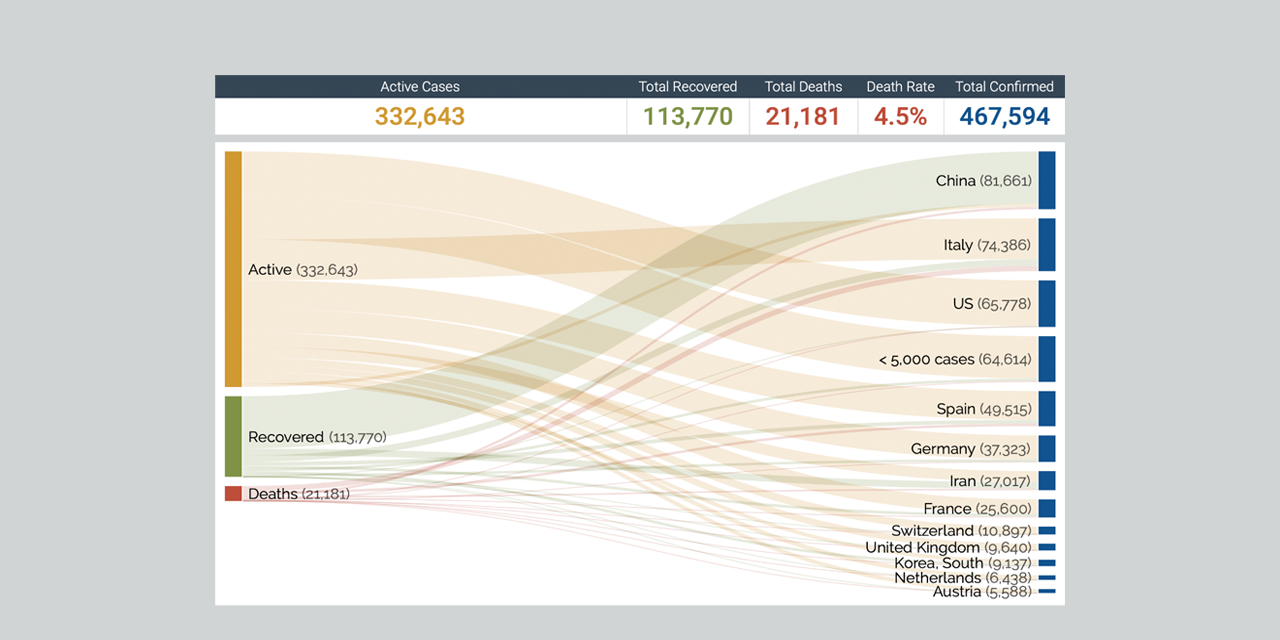
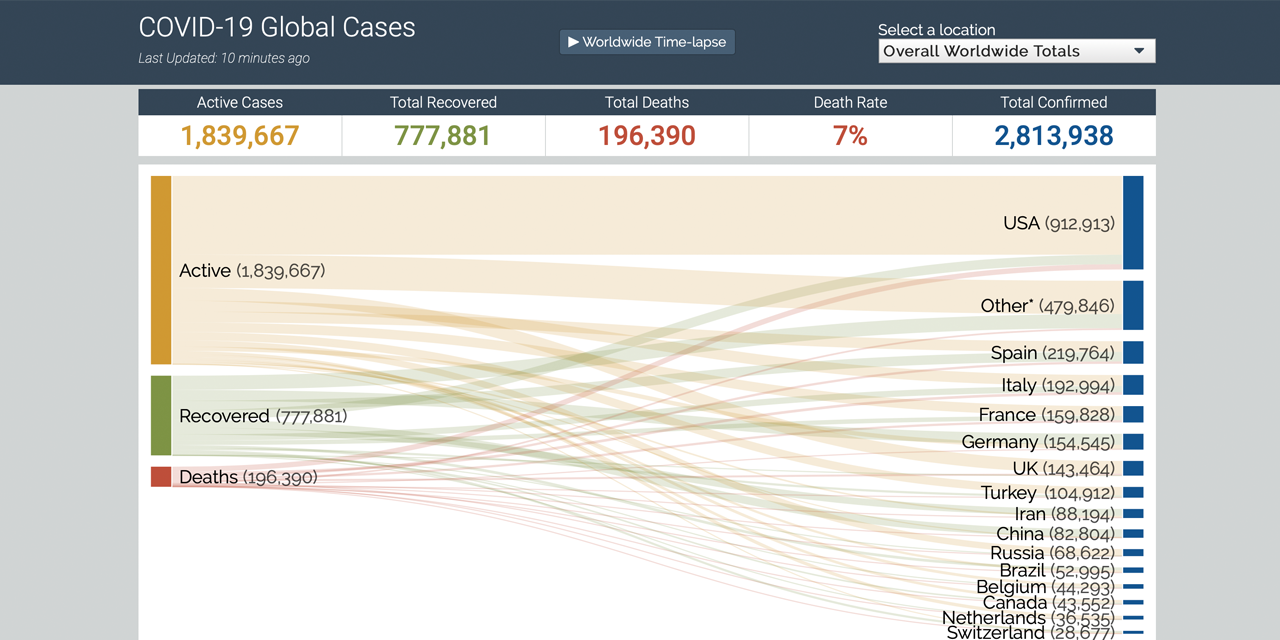
fix: update screenshot to match current view
Bumps the cache version for the service worker as well

fixes #94

diff --git a/src/service-worker.js b/src/service-worker.js
@@ -1,5 +1,5 @@
 // Name our cache
-const CACHE_NAME = 'covid-19-app-v1.0.5';
+const CACHE_NAME = 'covid-19-app-v1.0.6';
 
 // URLs we want to fetch before using the cached version
 const WHITELIST_URLS = [
